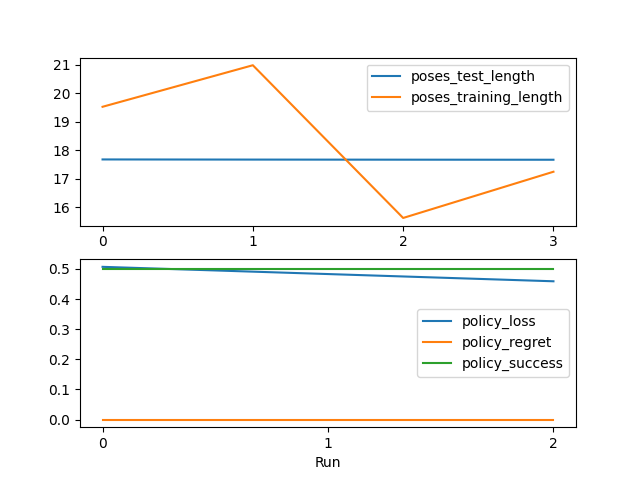
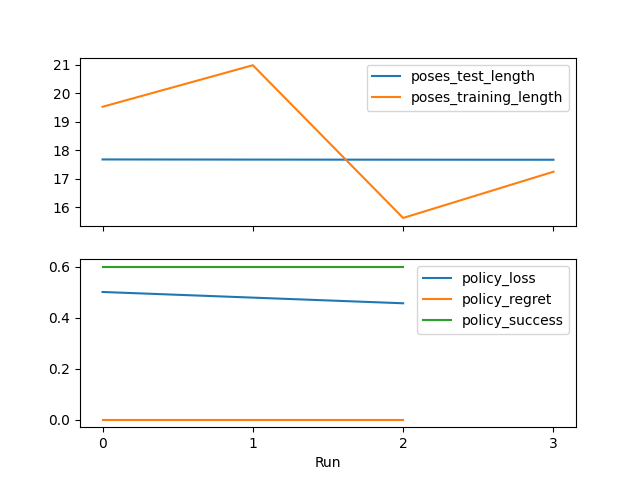
saving all the things

diff --git a/multi_optim/multi_optim.py b/multi_optim/multi_optim.py
@@ -146,18 +146,19 @@ def run_optimization(
         g, pos, poses_test_length, poses_training_length = optimize_poses(
             g, pos, map_img, optimizer_pos, rng)
         if i_r % stats_every == 0:
-            stats.add("poses_test_length", i_r, poses_test_length)
-            stats.add("poses_training_length", i_r, poses_training_length)
+            stats.add("poses_test_length", i_r, float(poses_test_length))
+            stats.add("poses_training_length", i_r,
+                      float(poses_training_length))
 
         if i_r % n_runs_pose_per_policy == 0:
             # Optimizing Policy
             (policy_model, policy_loss, regret, success, old_d
              ) = optimize_policy(
                 policy_model, g, n_agents, optimizer_policy, old_d, rng)
-            stats.add("policy_loss", i_r, policy_loss)
+            stats.add("policy_loss", i_r, float(policy_loss))
             if regret is not None:
-                stats.add("policy_regret", i_r, regret)
-            stats.add("policy_success", i_r, success)
+                stats.add("policy_regret", i_r, float(regret))
+            stats.add("policy_success", i_r, float(success))
 
         pb.progress()
     pb.end()
@@ -165,7 +166,7 @@ def run_optimization(
     draw_graph(g, map_img, title="End")
     plt.savefig(f"multi_optim/results/{prefix}_end.png")
 
-    fig, axs = plt.subplots(2, 1)
+    fig, axs = plt.subplots(2, 1, sharex=True)
     for i_x, part in enumerate(["poses", "policy"]):
         for k, v in stats.get_stats_wildcard(f"{part}.*").items():
             axs[i_x].plot(v[0], v[1], label=k)
@@ -173,6 +174,12 @@ def run_optimization(
         axs[i_x].xaxis.set_major_locator(MaxNLocator(integer=True))
     plt.xlabel("Run")
     plt.savefig(f"multi_optim/results/{prefix}_stats.png")
+
+    # Save results
+    stats.to_yaml(f"multi_optim/results/{prefix}_stats.yaml")
+    nx.write_gpickle(g, f"multi_optim/results/{prefix}_graph.gpickle")
+    torch.save(policy_model.state_dict(),
+               f"multi_optim/results/{prefix}_policy_model.pt")
 
     return g, pos, poses_test_length, poses_training_length
 

diff --git a/tools.py b/tools.py
@@ -13,6 +13,8 @@ from typing import Dict, List, Tuple, Union
 
 import networkx as nx
 import numpy as np
+import yaml
+from yaml.loader import Loader
 
 from definitions import POS
 
@@ -343,7 +345,6 @@ class ProgressBar(object):
 
 class StatCollector(object):
     def __init__(self, names: List[str]):
-        self.names: List[str] = names
         self.stats: Dict[
             str, Dict[str, List[float]]] = {}
         for name in names:
@@ -352,8 +353,8 @@ class StatCollector(object):
                 "x": []
             }
 
-    def add(self, name: str, t: float, x: float):
-        assert name in self.names
+    def add(self, name: str, t: int, x: float):
+        assert name in self.stats.keys()
         self.stats[name]["t"].append(t)
         self.stats[name]["x"].append(x)
 
@@ -368,7 +369,17 @@ class StatCollector(object):
     def get_stats_wildcard(self, pattern: str):
         matched_names = []
         regex = re.compile(pattern)
-        for n in self.names:
+        for n in self.stats.keys():
             if regex.match(n):
                 matched_names.append(n)
         return self.get_stats(matched_names)
+
+    def to_yaml(self, filename: str):
+        assert filename.endswith(".yaml")
+        with open(filename, 'w') as f:
+            yaml.dump(self.stats, f)
+
+    def from_yaml(self, filename: str):
+        assert filename.endswith(".yaml")
+        with open(filename, 'r') as f:
+            self.stats = yaml.load(f, Loader=yaml.SafeLoader)

diff --git a/roadmaps/var_odrm_torch/var_odrm_torch.py b/roadmaps/var_odrm_torch/var_odrm_torch.py
@@ -97,7 +97,7 @@ def make_graph(
     delaunay = weights.Rook.from_dataframe(cells)
     g = delaunay.to_networkx()
     nx.set_node_attributes(g, {
-        i: pos_np[i] for i in range(len(pos_np))}, POS)
+        i: tuple(pos_np[i]) for i in range(len(pos_np))}, POS)
     nx.set_edge_attributes(g, [], DISTANCE)
     for a, b in g.edges():
         if not check_edge(pos, map_img, a, b):
